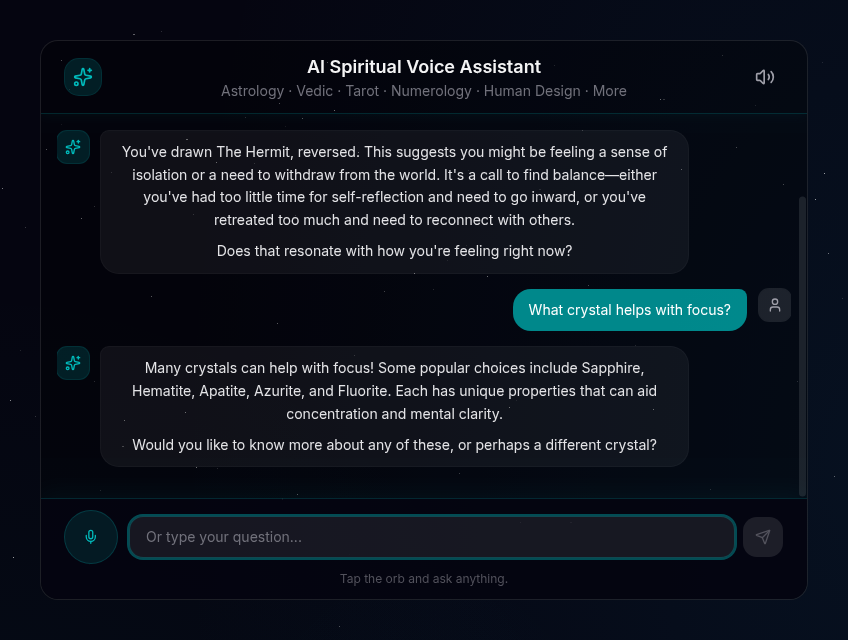
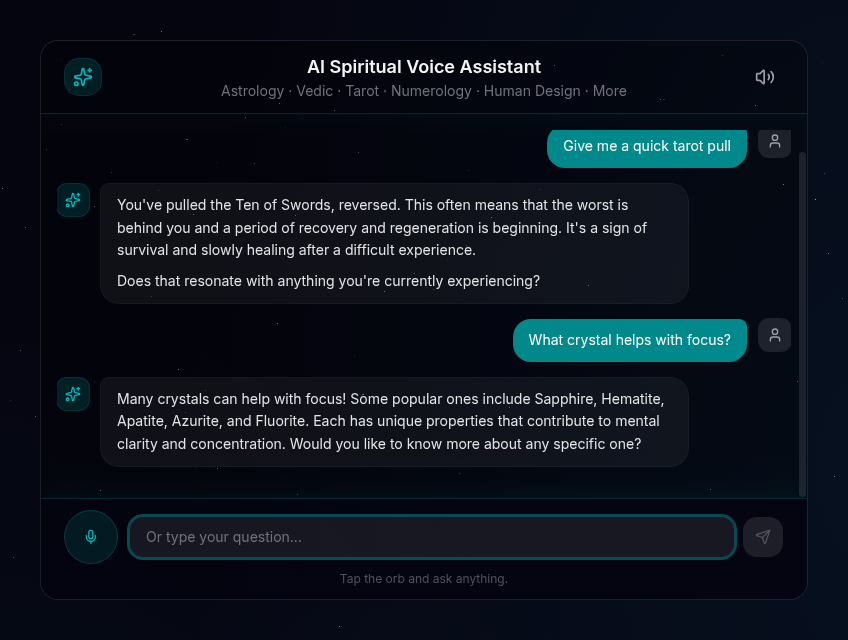
fix(transcript): left-align message text regardless of host container alignment

Changed region(s): [[0.0613, 0.4375, 0.9505, 0.7188], [0.0613, 0.1875, 0.9505, 0.4062]]

diff --git a/src/components/voice/TranscriptView.tsx b/src/components/voice/TranscriptView.tsx
@@ -28,7 +28,8 @@ export function TranscriptView({ messages, interim }: TranscriptViewProps) {
   }, [messages, interim]);
 
   return (
-    <ScrollArea className="h-full px-4 py-4" role="log" aria-live="polite">
+    // text-left guards against alignment inherited from a host container (the home hero centers its copy)
+    <ScrollArea className="h-full px-4 py-4 text-left" role="log" aria-live="polite">
       <div className="space-y-4">
         {messages.map((message) => {
           const text = messageText(message);